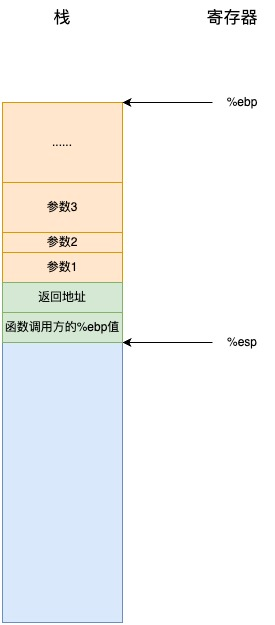
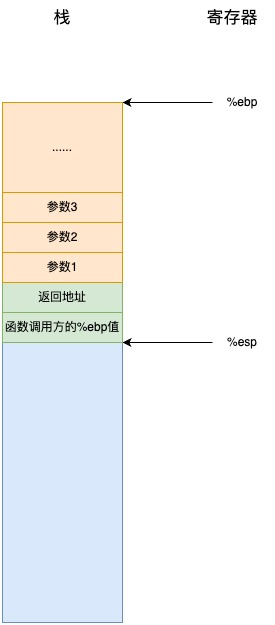
1

Changed region(s): [[0.0291, 0.2736, 0.4364, 0.3952], [0.0291, 0.4256, 0.4364, 0.456], [0.2036, 0.2128, 0.2618, 0.2432]]

diff --git a/programming/asm/src/base/invoke_function.md b/programming/asm/src/base/invoke_function.md
@@ -2,36 +2,38 @@
 
 C 语言调用约定（Calling Convention）是一组规则，定义了如何在函数调用过程中传递参数、如何管理函数调用期间的寄存器以及函数返回值的存放方式。
 
-在 C 语言调用约定中，栈是实现函数的局部变量、参数和返回地址的关键因素。
+在 C 语言调用约定中，栈是实现函数的局部变量、参数和返回地址的关键。
 
 ## 调用函数
 
-在调用函数之前，调用方会将被调用函数的所有参数按逆序压入栈中。
+以函数 a 中调用函数 b 为例, 函数 b 需要 3 个参数, 每个参数都占用 4 个字节。
+
+在调用 b 之前，a 会将 b 需要的所有参数按逆序压入栈中。
 
 此时的栈结构:
 
 ![](../img/invoke_function1.jpg)
 
-接着，调用方执行 `call` 指令, `cal1` 指令会做两件事：
+接着，函数 a 会执行 `call` 指令, `cal1` 指令会做两件事：
 
-1. 首先，它将`cal1` 指令的下一条指令的地址(即返回地址)压入栈中
-2. 然后，修改指令指针(`%eip`)以指向被调用函数的起始地址
+1. 将 `cal1` 指令的下一条指令的地址(即返回地址)压入栈中, 让 CPU 知道调用完函数后要从哪里继续执行
+2. 修改指令指针 `%eip` , 指向 b 的起始地址
 
 此时的栈结构:
 
 ![](../img/invoke_function2.jpg)
 
-此时 `%eip` 已经指向了被调用函数, 接着开始执行被调用函数的指令。
+此时 `%eip` 已经指向了函数 b, 接着开始执行 b 中的指令。
 
-首先，被调用函数通过 `pushl %ebp` 指令保存当前的基址指针寄存器 `%ebp`(即调用方的 `%ebp`)。基址指针是一个特殊的寄存器，用于访问函数的参数和局部变量。
+首先，函数 b 通过 `pushl %ebp` 指令保存当前的基址指针寄存器 `%ebp`(即 a 的 `%ebp`)。基址指针是一个特殊的寄存器，用于访问函数的参数和局部变量。
 
 此时的栈结构:
 
 ![](../img/invoke_function3.jpg)
 
-然后，它会用 `movl %esp, %ebp` 将栈指针 `%esp` 复制到 `%ebp`，这使你能够把函数参数作为相对于基址指针的固定索引进行访问。
+然后，函数 b 会用 `movl %esp, %ebp` 将栈指针 `%esp` 复制到 `%ebp`，这使得 b 能够通过 `%ebp` 加上偏移量访问到所有的参数。
 
-在函数开始时将栈指针复制到基址指针寄存器可以让你一直清楚参数和局部变量的位置，即使在将其他数据压入/弹出栈的情况下也是如此。`%ebp` 将一直是栈指针在函数开始时的位置，所以可以说是对栈帧的常量引用。(栈帧包含一个函数中使用的所有栈变量， 包括参数、局部变量和返回地址。)
+在函数开始时将 `%esp` 复制到 `%ebp` 可以让函数一直清楚参数和局部变量的位置。如果函数中存在入栈或出栈操作, 就会导致 `%esp` 的变化, 而 `%ebp` 将一直是栈指针在函数开始时的位置，所以可以说 `%ebp` 是对栈帧的常量引用。(栈帧包含一个函数中使用的所有栈变量， 包括参数、局部变量和返回地址。)
 
 此时的栈结构:
 
@@ -39,38 +41,30 @@ C 语言调用约定（Calling Convention）是一组规则，定义了如何在
 
 可以看到，每个参数都可以用 `%ebp` 通过基址寻址方式访问。
 
-接下来，函数为其所需的所有局部变量保留栈空间，只需将栈指针向外移动即可实现。假设要运行函数，我们需要两个字的内存(一个字的长度为 4 字节)，只需将栈指针 `%esp` 向下移动两个字即可预留空间。这是通过如下指令实现的：
-
-```x86asm
-subl $8 %esp
-```
-
-该指令将 `%esp` 减去 8, 这样，我们就能将栈用于变量存储，而无需担心函数调用引起的入栈会破坏存储的变量。
+接下来，函数 b 会为它的所有局部变量保留栈空间，只需将 `%esp` 向下(低地址方向)移动即可实现。假设函数 b 需要两个局部变量, 每个局部变量占用 4 字节的内存，那么只需通过 `subl $8 %esp` 命令将 `%esp` 向下移动 8 字节即可 。
 
 此时的栈结构:
 
 ![](../img/invoke_function5.jpg)
 
-所以我们现在可以使用 `%ebp` 中的不同偏移量，通过基址寻址访问这个函数所需的所有数据。`%ebp` 正是专门为这一目的设计的，这就是它被称为基址指针的原因。你可以在基址指针寻址方式中使用其他寄存器，但在 x86 架构中，使用 `%ebp` 寄存器速度会快得多。
+现在可以使用 `%ebp` 中的不同偏移量，通过基址寻址访问函数所需的所有数据。这就是 `%ebp` 被称为基址指针的原因。虽然也可以在基址指针寻址方式中使用其他寄存器，但在 x86 架构中，使用 `%ebp` 寄存器的速度会快得多。
 
 ## 函数返回
 
-当一个函数执行完毕后，它会做三件事:
+当函数 b 执行完毕后，它会做三件事:
 
-1. 将其返回值存储到 `%eax`
-2. 将栈恢复到调用函数时的状态(移除当前栈帧，并使调用方的栈帧重新生效)
-3. 将控制权交还给调用它的函数。这是通过 ret 指令实现的，该指令将栈顶的值(返回地址)弹出，并将指令指针寄存器 `%eip` 设置为该弹出值
+1. 将返回值存储到 `%eax`
+2. 将栈恢复到调用函数时的状态: 将栈指针 `%esp` 和基址指针 `%ebp` 重新设置为函数开始时的值
+3. 调用 `ret` 指令, 将控制权交还给调用它的函数 a。`ret` 指令将栈顶的值(返回地址)弹出，并将指令指针寄存器 `%eip` 设置为这个返回地址, 由于返回地址中保存的是函数 a 中 `call` 指令的下一条指令的地址, 所以函数 a 可以继续执行
 
-所以，在函数将控制权返回给调用它的代码时，必须恢复前一个栈帧。如果不这样做，`ret` 将无法正常工作，因为当前栈帧的返回地址不在栈顶。因此，返回前必须将栈指针 `%esp` 和基址指针 `%ebp` 重新设置为函数开始时的值。
-
-因此，要从函数返回，你必须使用如下指令：
+函数返回时需要执行的指令：
 
 ```x86asm
-# 移除当前栈帧
+# 栈恢复到调用函数时的状态
 movl %ebp, %esp
 # 恢复调用方的%ebp寄存器
 popl %ebp
-# 把%eip设置为返回地址
+# 把返回地址的值设置给%eip
 ret
 ```
 
@@ -86,10 +80,10 @@ ret
 
 ![](../img/invoke_function8.jpg)
 
-现在控制权已经转回调用代码那里，调用代码现在可以检查 `%eax` 中的返回值。调用代码也需要弹出其人栈的所有参数，以将栈指针复位至其原先的位置(如果不再需要参数值，那你用 `add1` 指令将 `4 * 参数个数` 加到 `%esp` 即可)。
+现在控制权已经转回函数 a 那里，a 现在可以检查 `%eax` 中的返回值。同时, 如果不再需要参数值，函数 a 可以用 `add1 $12 %esp` 将 3 个参数出栈。
 
 ## 调用函数前保存寄存器的中的值
 
-当你调用函数时，应该假设目前寄存器中的一切内容都会被去除。可以确保函数开始后其值仍然被保留的唯一一个寄存器就是 `%ebp`。
+当调用函数时，当前寄存器中的一切内容都可能会被覆盖, 唯一一个不会被覆盖的寄存器就是 `%ebp`。
 
-`%eax` 肯定会被覆盖，而其他寄存器则可能被覆盖。如果你要在调用函数前保存寄存器的内容，必须在函数参数入栈前将其入栈。然后，你可以在弹出参数后以逆序将其弹出存回寄存器。即使你知道函数不会覆盖某个寄存器，也应该保存它，因为该函数将来的版本可能会覆盖该寄存器。
+`%eax` 作为返回值肯定会被覆盖，而其他寄存器则可能被覆盖。如果要在调用函数前保存寄存器的内容，必须在函数参数入栈前将寄存器的内容入栈。然后，在弹出参数后以逆序将其弹出存回寄存器。即使知道函数不会覆盖某个寄存器，也应该保存它，因为该函数将来的版本可能会覆盖该寄存器。

diff --git a/programming/asm/src/base/function_demo.md b/programming/asm/src/base/function_demo.md
@@ -12,19 +12,33 @@
     .globl _start
     _start:
         # 参数逆序入栈
-        # pushq 会把8个字节入栈
-        pushq $3
-        pushq $2
+
+        # 由于64位系统只能使用pushq,
+        # pushq 会把8个字节入栈,
+        # 而实际上只需要两个4字节的栈空间,
+        # 所以改成 subq + movl 实现
+
+        # 分配8字节的栈空间
+        subq $8, %rsp
+        # 指数参数入栈
+        movl $3, %eax
+        movl %eax, 4(%rsp)
+        # 底数参数入栈
+        movl $2, %eax
+        movl %eax, (%rsp)
+
         # 调用函数
         call power
+
         # 函数调用完成,
         # 从栈中移除两个参数
-        addq $16, %rsp
-        # 函数返回值在rax中
-        # 把它保存到rbx
-        movq %rax, %rbx
+        addq $8, %rsp
+
+        # 函数返回值在eax中
+        # 把它保存到ebx
+        movl %eax, %ebx
         # 系统调用: exit
-        movq $1, %rax
+        movl $1, %eax
         int $0x80
 
     # 定义power函数
@@ -32,39 +46,52 @@
     power:
         # 保存调用方的rbp
         pushq %rbp
-        # 设置自己的rbp
+        # 设置rbp为power函数的栈底,
+        # 用来定位参数和局部变量
         movq %rsp, %rbp
+
         # 为局部变量分配栈空间
-        subq $8, %rsp
-        # 把第一个参数放到rbx中
+        subq $4, %rsp
+
+        ####################################
+        # 此时的栈空间:
+        #
+        # 底数 <--- 20(ebp)
+        # 指数 <--- 16(ebp)
+        # 返回地址 <--- 8(%ebp)
+        # _start的rbp <--- (%rbp)
+        # 局部变量 <--- -4(%rbp)和(%rsp)
+        ####################################
+
+        # 把第一个参数放到ebx中
         # (需要跳过栈中调用方的rbp和返回地址两个8字节数据)
-        movq 16(%rbp), %rbx
-        # 把第二个参数放到rcx中
-        movq 24(%rbp), %rcx
+        movl 16(%rbp), %ebx
+        # 把第二个参数放到ecx中
+        movl 20(%rbp), %ecx
 
         # 先把底数存储到局部变量
-        movq %rbx, -8(%rbp)
+        movl %ebx, -4(%rbp)
         # 循环相乘,
         # 指数从n次方减到1次方时跳出
         power_loop_start:
-            cmpq $1, %rcx
+            cmpl $1, %ecx
             je end_power
             # 取出底数
             # 因为计算操作只能使用寄存器
-            movq -8(%rbp), %rax
+            movl -4(%rbp), %eax
             # 相乘
-            imulq %rbx, %rax
+            imull %ebx, %eax
             # 把结果存回局部变量
-            movq %rax, -8(%rbp)
+            movl %eax, -4(%rbp)
 
             # 指数递减
-            decq %rcx
+            decl %ecx
             # 下一轮循环
             jmp power_loop_start
 
         end_power:
             # 返回值放入rax
-            movq -8(%rbp), %rax
+            movl -4(%rbp), %eax
             # 移除当前函数的栈帧
             movq %rbp, %rsp
             # 恢复调用方的rbp
@@ -78,5 +105,6 @@
 ```sh
 as --gstabs power.s -o power.o
 ld power.o -o power
-gdb ./power
+./power
+echo $?
 ```

diff --git a/base/math/src/further_mathematics/infinity.md b/base/math/src/further_mathematics/infinity.md
@@ -60,3 +60,39 @@
 2. 两个无界函数/数列之积不一定是无界函数/数列, 比如: 两个无界数列 `1, 0, 3, 0, 5, ...` 和 `0, 2, 0, 4, 0, ...` 的积是有界的
 
 ## 无穷小的一般性质
+
+<!--
+\begin{align}
+& 1. 有限个无穷小进行加减、相乘, 结果还是无穷小 \\
+& 2. 一个常数和无穷小相乘, 结果还是无穷小 \\
+& 3. 有界函数乘以无穷小, 结果还是无穷小，比如: \lim_{x \to 0} x^{2} \sin \frac{1}{x} = 0 \\
+& 4. 极限与无穷小的关系: \lim_{x \to a} f(x) = A 的充要条件是 f(x) = A + \alpha(x), 其中 \alpha(x) 是无穷小 \\
+\end{align}
+-->
+
+![](../img/i5.jpg)
+
+证明第 4 条:
+
+<!--
+\begin{align}
+& 1. 证明: \lim_{x \to a} f(x) = A \Rightarrow f(x) = A + \alpha(x), 其中 \alpha(x) 是无穷小 \\
+\\
+& 根据极限的定义, 对任意的 \varepsilon \gt 0, 总存在 \delta \gt 0, 当 x \in \mathring{U}(a,\delta) 时, \\
+& |f(x) - A| \lt \varepsilon \\
+& f(x) = A + f(x) - A, 令 \alpha (x) = f(x) - A, \\
+& 由于 |f(x) - A| \lt \varepsilon, 所以 |\alpha (x)| \lt \varepsilon \Rightarrow |\alpha (x) - 0| \lt \varepsilon \\
+& 即 \lim_{x \to a} \alpha(x) = 0 \Rightarrow \alpha(x)是无穷小 \\
+\\
+& 2. 证明: f(x) = A + \alpha(x), 其中 \alpha(x) 是无穷小 \Rightarrow \lim_{x \to a} f(x) = A \\
+\\
+& f(x) = A + \alpha(x) 两边同时取极限: \lim_{x \to a} f(x) = \lim_{x \to a} \left [ A + \alpha (x) \right ] \\
+& \lim_{x \to a} f(x) = \lim_{x \to a} A + \lim_{x \to a} \alpha (x) \\
+& \;\;\;\;\;\;\;\;\;\;\;\;\;\, = A + 0  \\
+& \;\;\;\;\;\;\;\;\;\;\;\;\;\, = A \\
+\end{align}
+-->
+
+![](../img/i6.jpg)
+
+例题:
